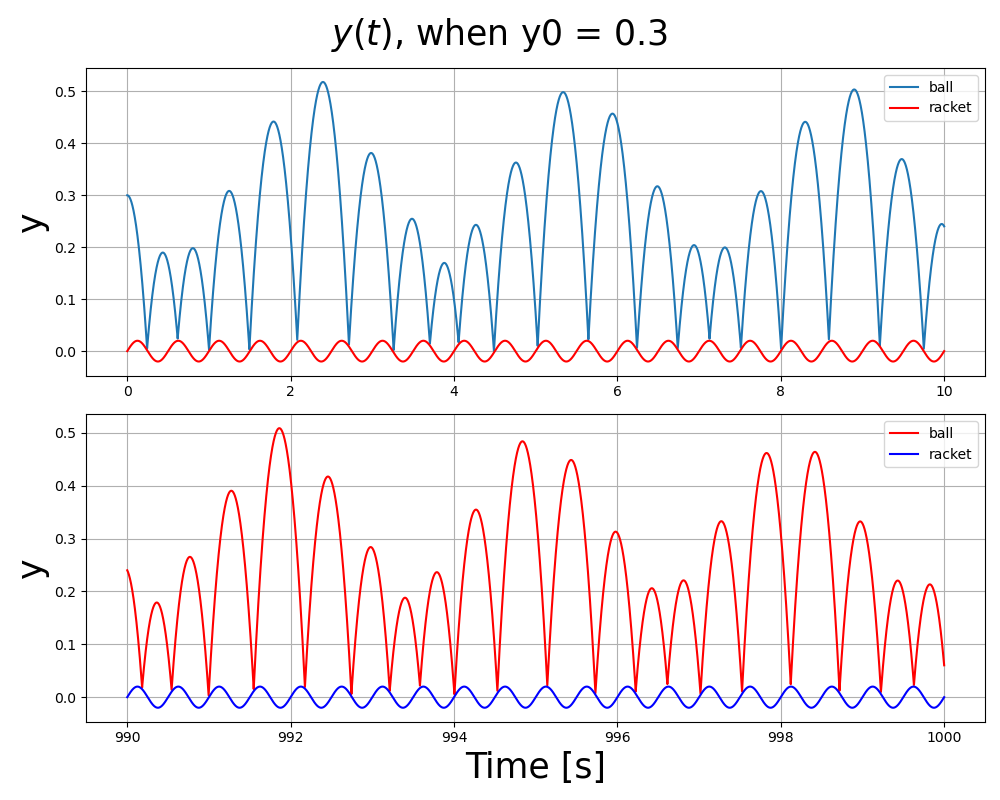
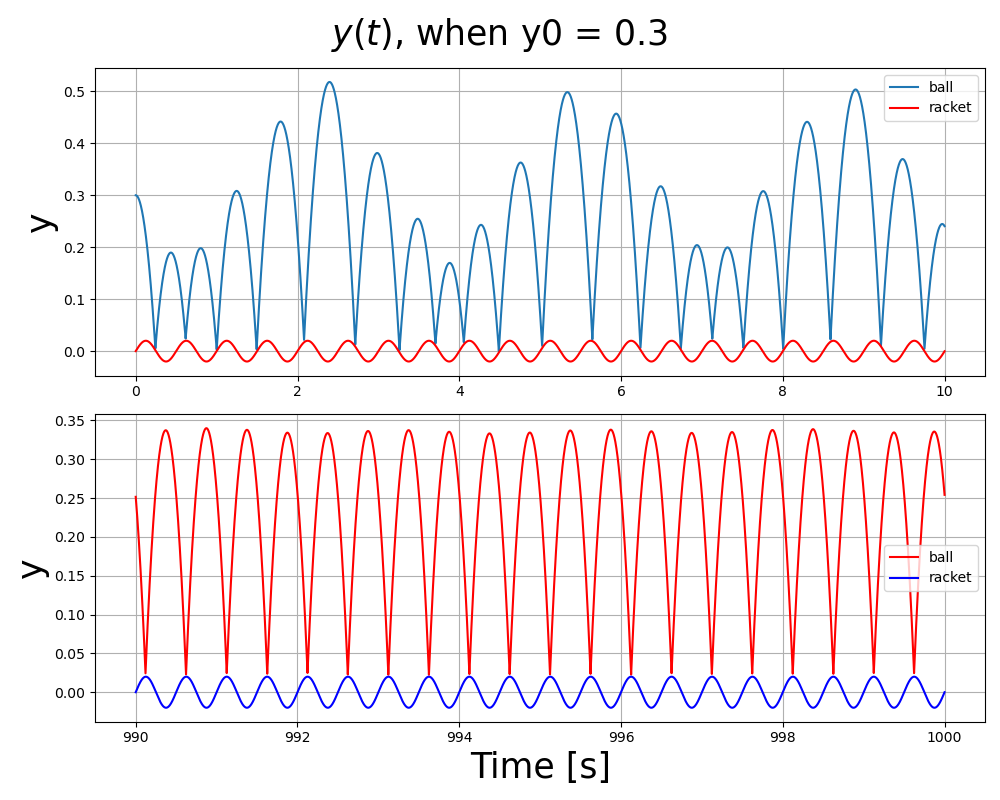
a picture

diff --git a/code/B_find_yo.py b/code/B_find_yo.py
@@ -1,0 +1,124 @@
+import numpy as np
+import matplotlib.pyplot as plt
+from scipy.signal import welch, find_peaks
+
+# 参数
+g = 10
+gamma = 0.02
+A = 0.02
+omega = 2 * np.pi
+dt = 0.001
+
+# 微分方程
+def ball_ode(u, t, p):
+    y, v = u
+    dydt = v
+    dvdt = -g - (gamma / 1) * v
+    return np.array([dydt, dvdt])
+
+# 球拍位置
+def racket_pos(t, p):
+    return p['A'] * np.sin(p['omega'] * t)
+
+# 球拍速度
+def racket_vel(t, p):
+    return p['A'] * p['omega'] * np.cos(p['omega'] * t)
+
+# 碰撞检测 (修正)
+def detect_collision(y_prev, y_curr, t_prev, t_curr, p):
+    def equation_to_solve(t):
+        y_ball = y_prev + (t - t_prev) * (y_curr - y_prev) / (t_curr - t_prev)
+        y_racket = racket_pos(t, p)
+        return y_ball - y_racket
+
+    if equation_to_solve(t_prev) * equation_to_solve(t_curr) > 0:
+        return False, None
+    else:
+        t_collision = (t_prev + t_curr) / 2
+        while t_curr - t_prev > 1e-9:
+            if equation_to_solve(t_prev) * equation_to_solve(t_collision) <= 0:
+                t_curr = t_collision
+            else:
+                t_prev = t_collision
+            t_collision = (t_prev + t_curr) / 2
+        return True, t_collision
+
+# 四阶 Runge-Kutta 方法
+def runge_kutta_4(f, u0, t0, tf, dt, p):
+    t = t0
+    u = u0
+    trajectory = [np.array([t, u[0], u[1]])]
+
+    while t < tf:
+        y_prev, v_prev = u
+        t_prev = t
+
+        k1 = dt * f(u, t, p)
+        k2 = dt * f(u + 0.5 * k1, t + 0.5 * dt, p)
+        k3 = dt * f(u + 0.5 * k2, t + 0.5 * dt, p)
+        k4 = dt * f(u + k3, t + dt, p)
+        u = u + (k1 + 2 * k2 + 2 * k3 + k4) / 6
+        t += dt
+
+        collided, t_collision = detect_collision(y_prev, u[0], t_prev, t, p)
+        if collided:
+            u[1] = 2 * racket_vel(t_collision, p) - u[1]
+            t = t_collision
+
+        trajectory.append(np.array([t, u[0], u[1]]))
+
+    return np.array(trajectory)
+
+# 寻找分岔 (以 y0 为分岔参数)
+def find_bifurcation(y0_values, params, t_span, dt):
+    bifurcation_data = []
+
+    for y0 in y0_values:
+        # 使用长时间模拟的最后状态作为初始条件, 避免重复计算
+        trajectory = runge_kutta_4(ball_ode, np.array([y0, 0]), 0, t_span[0], dt, params)
+        u0_long = trajectory[-1, 1:]  # 获取长时间模拟结束时的状态
+        trajectory = runge_kutta_4(ball_ode, u0_long, t_span[0], t_span[1], dt, params)
+
+        t = trajectory[:, 0]
+        y = trajectory[:, 1]
+        v = trajectory[:,2]
+
+        # 方法1: 查找峰值 (y 的局部最大值)
+        peaks, _ = find_peaks(y, height=0)  # 找到 y 值的所有峰值
+        peak_times = t[peaks]
+        peak_values = y[peaks]
+
+        # 方法2:  Poincare 截面 (每隔一个驱动周期记录一次 y 值)
+        #poincare_times = np.arange(t_span[0], t_span[1], 2*np.pi/params['omega'])
+        #poincare_values = np.array([trajectory[(np.abs(trajectory[:, 0] - poincare_time)).argmin()][1] for poincare_time in poincare_times])
+
+        #记录
+       # for val in poincare_values:
+       #      bifurcation_data.append([y0, val])
+        for val in peak_values:
+            bifurcation_data.append([y0, val])
+
+    return np.array(bifurcation_data)
+
+# 参数
+params = {'g': 10, 'gamma': 0.02, 'A': 0.02, 'omega': 2 * np.pi}
+
+
+# 不同的 y0 值
+y0_values = np.linspace(0.2, 1.0, 200)  # 更密的采样
+
+# 模拟时间
+t_span = (500,600) # 先进行长时间模拟，再分析稳态
+dt = 0.001
+
+# 执行分岔分析
+bifurcation_data = find_bifurcation(y0_values, params, t_span, dt)
+
+# 绘制分岔图
+plt.figure(figsize=(10, 6))
+plt.scatter(bifurcation_data[:, 0], bifurcation_data[:, 1], s=1, marker='.', c='blue')  # 用小点绘制
+plt.xlabel('y0', fontsize=15)
+plt.ylabel('y (peak values)', fontsize=15)
+plt.title('Bifurcation Diagram (y0)', fontsize=18)
+plt.grid(True)
+plt.show()

diff --git a/code/B.py b/code/B.py
@@ -72,29 +72,28 @@ t02 = 990
 tf2 = 1000
 
 # trajectory1 = runge_kutta_4(f, u0, t01, tf2, dt, params)
-# t1 = trajectory1[10/dt:, 0]
-# y1 = trajectory1[10/dt:, 1]
-# v1 = trajectory1[10/dt:, 2]
+# t1 = trajectory1[:int(10/dt), 0]
+# y1 = trajectory1[:int(10/dt), 1]
+# v1 = trajectory1[:int(10/dt), 2]
 
-# t2 = trajectory1[990/dt:, 0]
-# y2 = trajectory1[990/dt:, 1]
-# v2 = trajectory1[990/dt:, 2]
+# t2 = trajectory1[int(990/dt):, 0]
+# y2 = trajectory1[int(990/dt):, 1]
+# v2 = trajectory1[int(990/dt):, 2]
 
 
+# # # 展示0-10s的运动轨迹
+# # trajectory1 = runge_kutta_4(f, u0, t01, tf1, dt, params)
+# # t1 = trajectory1[:, 0]
+# # y1 = trajectory1[:, 1]
+# # v1 = trajectory1[:, 2]
 
-# # 展示0-10s的运动轨迹
-# trajectory1 = runge_kutta_4(f, u0, t01, tf1, dt, params)
-# t1 = trajectory1[:, 0]
-# y1 = trajectory1[:, 1]
-# v1 = trajectory1[:, 2]
+# # # 展示990-1000s的运动轨迹
+# # trajectory2 = runge_kutta_4(f, , t02, tf2, dt, params)
+# # t2 = trajectory2[:, 0]
+# # y2 = trajectory2[:, 1]
+# # v2 = trajectory2[:, 2]
 
-# # 展示990-1000s的运动轨迹
-# trajectory2 = runge_kutta_4(f, u0, t02, tf2, dt, params)
-# t2 = trajectory2[:, 0]
-# y2 = trajectory2[:, 1]
-# v2 = trajectory2[:, 2]
-
-# 展示0-10，990-1000s的轨迹（在同⼀张图也画出球拍的轨迹）
+# # 展示0-10，990-1000s的轨迹（在同⼀张图也画出球拍的轨迹）
 
 # fig, axs = plt.subplots(2, 1, figsize=(10, 8))
 
@@ -122,7 +121,7 @@ tf2 = 1000
 # plt.show()
 
 
-# 改变y0
+# # 改变y0
 
 def plot(y0,param,t01,tf2,dt):
     # 展示0-10s的运动轨迹
@@ -141,10 +140,18 @@ def plot(y0,param,t01,tf2,dt):
     plt.savefig(f'figure/B_y0 = {y0}_ii.png')
     plt.show()
 
+    plt.scatter(y1,v1)
+    plt.xlabel('y', fontsize=25)    
+    plt.ylabel('v', fontsize=25)
+    plt.title(f'y vs v when y0 = {y0}', fontsize=25)
+    plt.grid(True)
+    plt.savefig(f'figure/B_y0 = {y0}_phase.png')
+    plt.show()
+
 # for y0 in [1,20,1]:
 #     plot(y0,params,t01,tf2,dt)
 
-plot(10000,params,t01,tf2,dt)
+plot(0.002,params,t01,tf2,dt)
 
 
 

diff --git a/README.md b/README.md
@@ -80,24 +80,19 @@ $\omega = 20$:
 
 #### 4.理论解释
 
-以上$\omega = 20$时的现象可以用有效势能解释。有效是能是 (Effective Potential Energy) 是通过平均化方法 (Averaging Method)得到的，该方法用于处理包含快速振动或高频项的非线性动力学系统。在Kapitza摆的案例中，有效势能是通过考虑支点的高频振动对摆的运动影响的平均效果来得到的。
+以上$\omega = 20$时的现象可以用有效势能解释。有效是能是 (Effective Potential Energy) 是通过平均化方法 (Averaging Method)得到的，在Kapitza摆中，往复电机对于小球的作用可以平均化为势能。
 
 具体来说，Kapitza摆的运动方程为：
 
 $$\ddot{\theta}+\left(\frac gL+\frac{A\omega^2}L\cos(\omega t)\right)\sin\theta=0$$
 
-其中，$\frac{A\omega^2}L\cos(\omega t)$是一个高频项，其频率远大于摆的自然频率$\sqrt{\frac gL}$。为了简化这个方程，我们可以
-
-使用平均化方法，将高频项的时间平均效果考虑进去。
-
-平均化方法的基本思想是，对于一个快速变化的函数$f(t)$,其在一个周期$T$内的平均值可以表示为
-
-$$\langle f(t)\rangle=\frac1T\int_0^Tf(t)\:dt$$
+其中，$\frac{A\omega^2}L\cos(\omega t)$是一个高频项其频率$\omega$即为电机王府运动的频率。其频率远大于摆的自然频率$\sqrt{\frac gL}$。（前面$\omega$取较大值的时候的现象也能说明这一点）为了简化这个方程，我们可以使用平均化方法，将高频项的时间平均效果考虑进去。
 
 
-在Kapitza摆的案例中，我们考虑$\cos(\omega t)$ 的平均效果。由于$\cos(\omega t)$ 是一个周期函数，其在一个周期的平均值为零。但是，\( \cos^2(\omega t) \) 的平均值不为零，因为 \( \cos^2(\omega t) = \frac{1 + \cos(2\omega t)}{2} \)，而 \( \cos(2\omega t) \) 的平均值也为零，所以 \( \cos^2(\omega t) \) 的平均值为 \( \frac{1}{2} \)。
+在Kapitza摆中，我们考虑$\cos(\omega t)$ 的平均效果。 \( \cos^2(\omega t) \) 的平均值为 \( \frac{1}{2} \)。
 
-因此，我们可以将 \( \frac{A \omega^2}{L} \cos(\omega t) \sin \theta \) 的平均效果表示为 \( \frac{A \omega^2}{2L} \sin \theta \)。这样，Kapitza摆的运动方程可以近似为：
+因此，我们可以将 \( \frac{A \omega^2}{L} \cos(\omega t) \sin \theta \) 的平均效果表示为 \( \frac{A \omega^2}{2L} \sin \theta \)。
+这样，Kapitza摆的运动方程可以近似为：
 
 \[ \ddot{\theta} + \left( \frac{g}{L} + \frac{A \omega^2}{2L} \right) \sin \theta = 0 \]
 
@@ -106,8 +101,6 @@ $$\langle f(t)\rangle=\frac1T\int_0^Tf(t)\:dt$$
 \[ V_{\text{eff}}(\theta) = -\left( \frac{g}{L} + \frac{A \omega^2}{2L} \right) \cos \theta \]
 
 这个有效势能考虑了支点的高频振动对摆的运动的平均影响。当 \( A \omega^2 \) 足够大时，\( \frac{A \omega^2}{2L} \) 项会主导势能，使得 \( \theta = \pi \)（即摆锤在竖直向上位置）成为势能的最小值点，从而变得稳定。
-
-综上所述，有效势能是通过平均化方法得到的，它考虑了高频振动对系统运动的平均影响。在Kapitza摆的案例中，有效势能的计算展示了高频振动如何改变系统的稳定性。
 
 ### B. 乒乓球
 
@@ -161,16 +154,18 @@ def runge_kutta_4(f, u0: np.ndarray, t0: float, tf: float, dt: float, p: dict) -
 改变y0，得到结果如下：
 y0=0.1:
 ![alt text](<figure/B_y0 = 0.1_ii.png>)
+![alt text](<figure/B_y0 = 0.1_phase.png>)
 y0=1：
 ![alt text](<figure/B_y0 = 1_ii.png>)
+![alt text](<figure/B_y0 = 1_phase.png>)
 y0=20:
 ![alt text](<figure/B_y0 = 20_ii.png>)
 y0=100:
 ![alt text](<figure/B_y0 = 100_ii.png>)
-y0=10000:
-![alt text](<figure/B_y0 = 10000_ii.png>)
 
-由上述图片可以发现，
+由上述轨迹图和相图可以发现：
+1. 存在一种运动模式，是周期性的运动，运动频率等于球拍的振动频率.尤其是在y0非常大的时候，在球拍的作用可以近似为地面，碰撞的位置近似为相等，碰撞后速度反相，有固定的周期
+2. 还存在另一种运动模式，是混沌体系，相图不会回到原来的轨迹
 
 ##### iii.阻尼
 将阻尼系数gamma=0，得到结果如下：
@@ -188,12 +183,35 @@ y0=0.6:
 ![alt text](7a2d7bab2f4b388d5110a7e2f3ecb3f.png)
 
 由以上图片可以发现：
-没有阻尼的情况下，振荡的最大幅值不同，能达到的最大值不同。
-阻尼在这个过程中起到了损耗能量，使得体系达到了某种周期性的作用。
+没有阻尼的情况下，振荡的最大幅值不同，能达到的最大值不同。在没有阻尼时，系统进入了一种复杂的混沌体系对于处置条件非常敏感，运动也不是周期性的。此外，虽然没有周期性，但是由于重力的作用，物体的运动依然被限制在了一定的空间范围内，没有发散。
+阻尼在这个过程中起到了损耗能量的作用。在没有阻尼的情况下，系统中的能量无法耗散，这使得能量可以在各个自由度之间复杂地流动。这些复杂的能量流动与碰撞的非线性相互作用，可能是导致混沌行为的原因。
+
 #### 4.
-在不发生碰撞时，求解关于$$\dot{y}$$的方程,解得$$\dot{y}=ce^{-\gamma t}-\frac{g}{\gamma}$$,由于在$t=0$时，$\dot{y}=0$，因此$\dot{y}(t)=\frac{g}{\gamma}e^{-\gamma t}-\frac{g}{\gamma}$。
+在不发生碰撞时，求解关于$\dot{y}$的方程,解得$$\dot{y}=ce^{-\gamma t}-\frac{g}{\gamma}$$,由于在$t=0$时，$\dot{y}=0$，因此$\dot{y}(t)=\frac{g}{\gamma}e^{-\gamma t}-\frac{g}{\gamma}$。
 
 积分得到$y(t)=y_0-\frac{g}{\gamma^2}e^{-\gamma t}-\frac{g}{\gamma}t+\frac{g}{\gamma^2}$。
+
+对于普适的情况：
+$$\dot{y}=ce^{-\gamma t}-\frac{g}{\gamma}$$
+$$y(t)=y_0-\frac{c}{\gamma}e^{-\gamma t}-\frac{g}{\gamma}t$$
+
+
+不妨设在t0时发生碰撞时，$\dot{y}$发生突变：
+$$ \dot{y} = 2A \omega cos\omega t_0 -c_1e^{-\gamma t_0}+\frac{g}{\gamma}$$
+又由$$c_2-\frac{g}{\gamma}=2A \omega cos\omega t_0 -c_1e^{-\gamma t_0}+\frac{g}{\gamma}$$
+得：
+$$c_2=2A \omega cos\omega t_0 -c_1e^{-\gamma t_0}+\frac{2g}{\gamma}$$
+上式给出了碰撞前后$\dot{y}$式子中常数c的变化。
+由此在碰撞时刻就可以由碰撞的时刻精确地得出碰撞后$\dot{y}$的演化方程，积分后就可以得到y的精确求解。
+
+总结如下：
+
+1. 初始时刻已知y,v的初始值，由此得到$$\dot{y}=ce^{-\gamma t}-\frac{g}{\gamma}$$中的常数c
+2. 代入常数，得到$\dot{y}$和y的演化方程
+3. y =h(t)求解得到碰撞时刻
+4. 将碰撞时刻$t_0$带入$$c_2=2A \omega cos\omega t_0 -c_1e^{-\gamma t_0}+\frac{2g}{\gamma}$$得到碰撞后$\dot{y}$和y的演化方程中的常数$c_2$，回到步骤2.
+
+重复以上所示，就是求解y的轨迹的精确方法。 
 
 
 ## 附录
